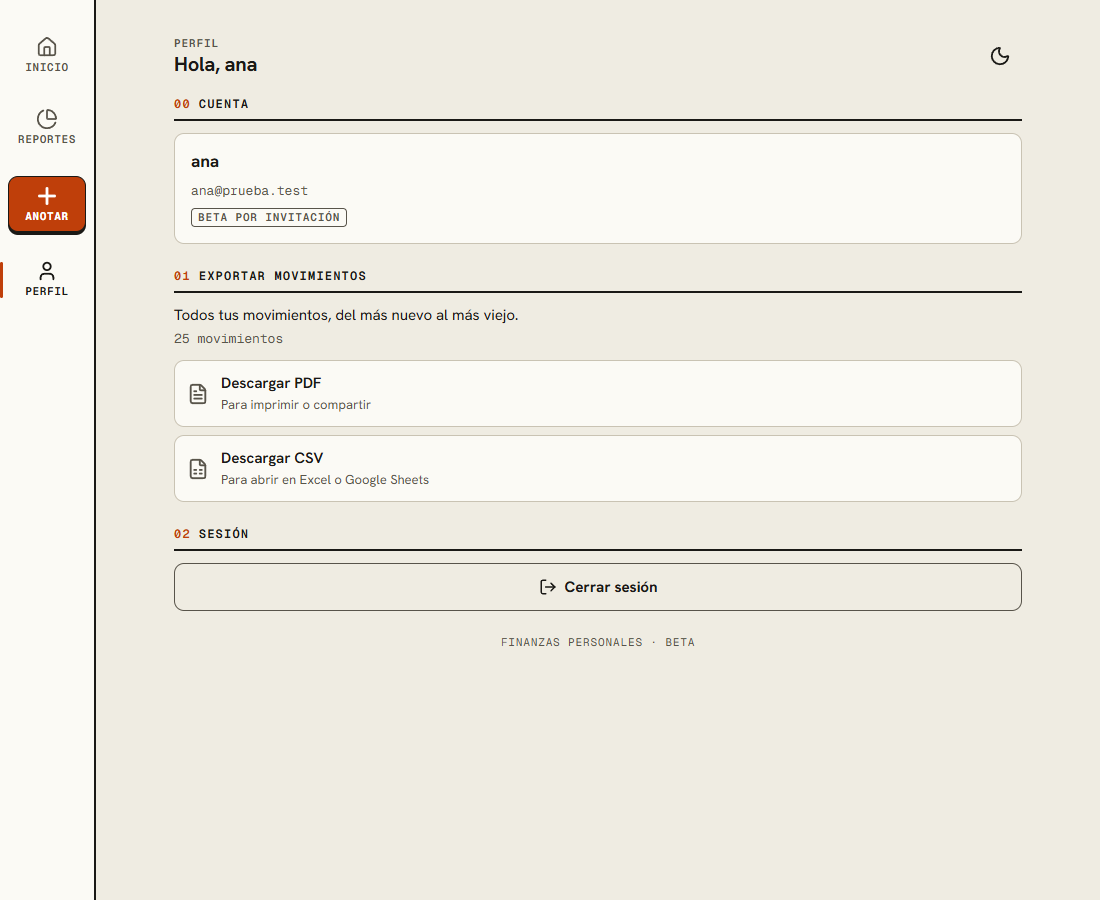
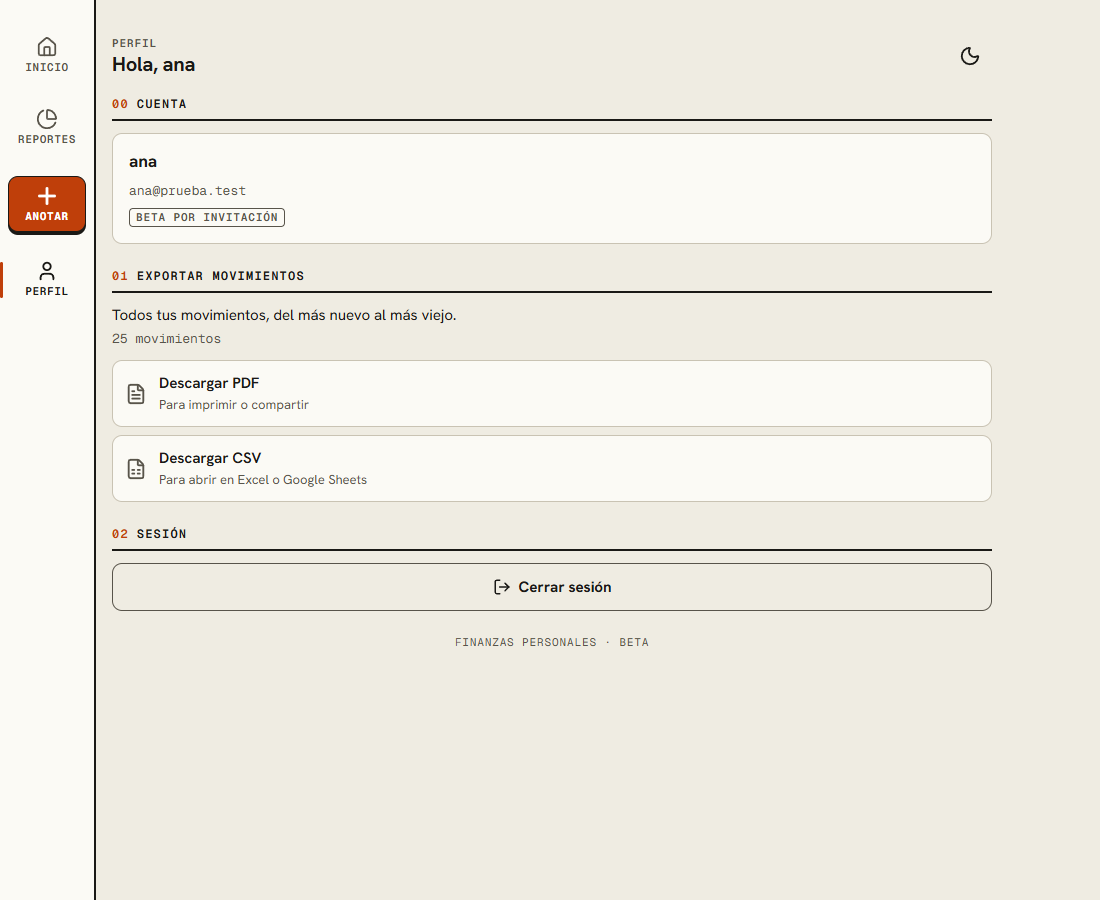
feat(ui): Perfil queda a la izquierda del contenido ancho para que el encabezado no salte entre pestañas

diff --git a/src/components/Layout.jsx b/src/components/Layout.jsx
@@ -9,8 +9,9 @@ import './Layout.css';
  */
 const Layout = ({ children, activeTab, onTabChange, onAddClick }) => {
   const current = activeTab === 'subscriptions' ? 'home' : activeTab;
-  // Inicio, Reportes y Gastos fijos se parten en dos columnas desde 1024 px y necesitan más ancho; Perfil sigue en una.
-  const wide = activeTab !== 'profile';
+  // Desde 1024 px el contenido mide 1120 px (Inicio, Reportes y Gastos fijos van en dos columnas). Perfil sigue en una columna de 880 px,
+  // pero alineada a la izquierda: así el encabezado no se corre al cambiar de pestaña.
+  const narrow = activeTab === 'profile';
 
   const item = (id, label, Icon) => (
     <button
@@ -40,7 +41,7 @@ const Layout = ({ children, activeTab, onTabChange, onAddClick }) => {
         {item('profile', 'Perfil', User)}
       </nav>
 
-      <main className={wide ? 'layout__main layout__main--wide' : 'layout__main'} id="contenido" tabIndex={-1}>
+      <main className={narrow ? 'layout__main layout__main--narrow' : 'layout__main'} id="contenido" tabIndex={-1}>
         {children}
       </main>
     </div>

diff --git a/src/components/shell.test.jsx b/src/components/shell.test.jsx
@@ -46,7 +46,7 @@ describe('Layout', () => {
     expect(onAddClick).toHaveBeenCalledTimes(1);
   });
 
-  it('Inicio, Reportes y Gastos fijos usan el ancho de dos columnas; Perfil sigue en una', () => {
+  it('solo Perfil se queda en una columna angosta; las demás pantallas usan el ancho completo', () => {
     const main = () => document.getElementById('contenido');
     ['home', 'reports', 'subscriptions'].forEach((tab) => {
       const { unmount } = render(
@@ -54,11 +54,11 @@ describe('Layout', () => {
           <p>contenido</p>
         </Layout>,
       );
-      expect(main()).toHaveClass('layout__main--wide');
+      expect(main()).not.toHaveClass('layout__main--narrow');
       unmount();
     });
     setup('profile');
-    expect(main()).not.toHaveClass('layout__main--wide');
+    expect(main()).toHaveClass('layout__main--narrow');
   });
 
   it('ofrece saltar al contenido y el contenido tiene ese destino', () => {

diff --git a/src/components/Layout.css b/src/components/Layout.css
@@ -173,10 +173,15 @@
   }
 }
 
-/* Escritorio ancho: las pantallas de dos columnas usan más ancho que la columna de lectura de 880 px */
+/* Escritorio ancho: el contenido mide 1120 px para las pantallas de dos columnas. Las de una columna (Perfil) se quedan en 880 px,
+   pegadas al borde izquierdo, para que el encabezado no cambie de lugar entre pestañas. */
 @media (min-width: 1024px) {
-  .layout__main--wide {
+  .layout__main {
     max-width: 1120px;
+  }
+
+  .layout__main--narrow > * {
+    max-width: 880px;
   }
 }
 

diff --git a/docs/ui-redesign/prompt-nueva-sesion.md b/docs/ui-redesign/prompt-nueva-sesion.md
@@ -1,0 +1,107 @@
+<rol>
+Sos desarrollador/a frontend y diseñador/a senior. Continuás, en una sesión nueva y como si fuera la misma, el trabajo sobre "Financial App": una PWA de finanzas personales en pesos argentinos. El rediseño completo de la UI ya está terminado y en producción; ahora estás implementando, de a un PR por vez, las decisiones que el usuario tomó después del cierre.
+</rol>
+
+<contexto>
+Proyecto: React 19 + Vite, Firebase Auth/Firestore y backend en Vercel `/api`. La usan el autor y gente cercana, sobre todo desde el celular, y varios no son técnicos. Toda la UI está en español rioplatense (voseo). Producción: https://financial-app-seven-cyan.vercel.app (Vercel publica `main` solo). Repo: AgusVukusic/Financial-App. Carpeta local (Windows 11): `C:\Users\Agustín\OneDrive\Documentos\Programacion\Financial App`.
+
+Estado verificado al 2026-11-16:
+- `main` en `d9db606` (merge del PR #18). Mergeados #5 a #18: sistema de diseño, todas las pantallas rehechas, fase 5 de cierre (limpieza, accesibilidad, PWA, documentación) y, después del cierre, #17 (Gastos fijos con las 6 categorías de la app + CSV para Excel) y #18 (anotar un movimiento escribiendo "café 3500", con la cuenta en botones). No hay PRs abiertos. Lint: 0 errores y 9 avisos conocidos. Pruebas: 390. El CI de `main` estaba en verde antes de #17; comprobalo ahora.
+- Dirección visual aprobada por el usuario: "Panel de taller" (teclas con relieve, rótulos mono de panel, cifras en puntos con la fuente Doto, un solo acento naranja, tramas para distinguir categorías sin color). Está documentada en `DESIGN.md`.
+
+Cola de trabajo pendiente (el usuario decidió el orden: lo dejó a tu criterio y ya lo fijaste así). Un PR por cada punto, en este orden, esperando el merge antes de abrir el siguiente:
+
+1. **Termómetro de ritmo en Reportes** (el usuario dijo "perfecto" a la propuesta). Muestra cuánto se gastó contra cuánto correspondería a esta altura del mes. Propuesta de diseño, a ajustar con criterio: solo para el mes en curso y solo si hay al menos un tope cargado; esperado = suma de los topes × (día actual / días del mes); gastado = lo gastado en las categorías que tienen tope; estado en texto + ícono + medidor (`Meter`), por ejemplo "Vas más rápido de lo esperado" / "En ritmo" / "Vas más lento"; nunca solo color. La lógica va como función pura en `src/utils/reportsData.js` (es un helper de UI, no capa de datos) con pruebas. Una sección numerada nueva en Reportes (`SectionHeader`) o un resumen arriba; elegí lo que se lea mejor y explicalo en el PR.
+2. **Dos columnas en escritorio** (el usuario preguntó "¿cómo deberíamos arreglar eso?" y vos propusiste lo siguiente; hacelo): desde 1024 px, Inicio en dos columnas (saldo, "Anotar rápido", "Para pagar" y "Cuentas" a la izquierda; "Movimientos" a la derecha), Reportes y Gastos fijos partidos con el mismo criterio, Perfil sigue en una columna. Hoy el contenido es una columna de 880 px junto a un riel lateral de 96 px (desde 768 px). No tiene que cambiar nada por debajo de 1024 px. Cuidá el orden de Tab (la navegación va antes del contenido en el DOM) y que las hojas sigan centradas.
+3. **Frecuentes de los últimos 3 meses** (el usuario respondió "Sí, 3 meses"). Hoy "Anotar rápido" arma las teclas solo con los gastos del mes que se está viendo, así que el día 1 de cada mes está vacío. Autorizó tocar la capa de datos **solo para leer más movimientos**. Hacelo con un hook nuevo de solo lectura (consulta `transactions(userId, occurredAt)` de los últimos 3 meses, el índice ya existe, con límites `Date`), sin cambiar `functions/`, `api/`, `firestore.rules` ni la firma ni lo que devuelven los hooks existentes. Mostrá antes de empezar qué archivo nuevo vas a agregar y cuántas lecturas de Firestore suma por sesión (el plan gratuito Spark tiene cupo diario). La lógica de frecuentes vive en `src/utils/frequentExpenses.js`. Agregá una carga de datos de 3 meses al seed del emulador para poder verificarlo.
+
+Decisiones del usuario ya tomadas, que no hay que volver a plantear:
+- "Instalar la app" es la acción principal de la Landing e "Ingresar" la secundaria.
+- Cifras protagonistas (saldo del Inicio, gasto mensual de Gastos fijos) en Doto con el "$" naranja; pasan a mono cuando el número ya formateado supera los 12 caracteres.
+- Las descripciones largas se dejan como están (el formulario limita a 30 letras; la descripción del texto natural se recorta a 30) y los montos con centavos se muestran redondeados a pesos enteros en las listas (la confirmación del texto natural sí muestra los centavos exactos).
+- Gastos fijos usa las 6 categorías de la app; los viejos se muestran como "Otros" con aviso hasta que se guardan.
+- Pidió que las instrucciones para gente no técnica digan qué dibujo buscar, dónde está en pantalla y qué tocar.
+- Quiere respuestas breves. Borrados autorizados hasta ahora: los archivos de limpieza de la fase 5 y `public/icons.svg` (ya borrados); nada más.
+- Lo que no se pudo probar en aparatos reales sigue pendiente de él: iPhone, Android, Safari, lector de pantalla, abrir el CSV en Excel, seguir la guía de instalación, el teclado del celular con el texto natural, la barra de estado negra de iOS y el ícono "maskable" en Android.
+</contexto>
+
+<primeros_pasos>
+1. Leé, en este orden: `docs/ui-redesign/handoff.md` completo (las secciones 0 y 6 son historia ya cumplida; la 8 trae las trampas del entorno y las 9 y 10 los protocolos), `docs/ui-redesign/progress.md`, `docs/ui-redesign/design-system.md`, `DESIGN.md`, `PRODUCT.md`, `CLAUDE.md` (raíz del repo) y `~/.claude/CLAUDE.md` del usuario. Después hojeá `docs/ui-redesign/pr-natural-entry.md`, `pr-categories-csv.md` y `pr-a11y.md` (formato esperado de un cuerpo de PR y de la sección "No probado / límites").
+2. Verificá el estado real sin confiar en este texto: `git fetch origin && git status -sb && git log --oneline origin/main -5`; PRs abiertos y CI del último commit de `main` por la API pública de GitHub (no hay `gh`; ver herramientas). Si hay cambios sin commitear, miralos antes de tocar nada y no los descartes. `.claude/` y `.impeccable/` quedan sin commitear a propósito.
+3. Parate en `main` actualizado (`git checkout main && git pull --ff-only origin main`) y creá la rama del primer punto de la cola (por ejemplo `feature/ui-reports-pace`).
+4. Decile al usuario en dos líneas dónde quedó el trabajo y por dónde arrancás. Si hay una duda de diseño que cambia lo que se construye, preguntala antes de construir (en la sesión anterior se construyó el texto natural antes de mostrárselo y hubo que avisárselo).
+5. Llevá la lista de tareas del turno y cerrá cada turno con el resumen que pide la app (ver formato de salida).
+</primeros_pasos>
+
+<restricciones>
+Cada regla trae su motivo para que la apliques también a casos no listados.
+
+Capa de datos intocable: `functions/`, `api/`, `firestore.rules`, `src/firebase.js`, `src/services/api.js`, `src/utils/money.js`, `src/utils/mappers.js`, `src/utils/calculations.js`, `src/utils/subscriptionUtils.js` y todos los hooks existentes de `src/hooks/` (lo que reciben y devuelven). Están verificados y en producción; un cambio ahí puede romper saldos reales. La única excepción autorizada es el hook nuevo de solo lectura del punto 3. Si otro punto necesita un dato nuevo, anotalo y preguntá antes. `src/utils/formatters.js`, `reportsData.js`, `frequentExpenses.js` y `naturalEntry.js` no son capa de datos.
+
+Grupos (`Groups.jsx`, `GroupDetails.jsx`, `useGroups.js`, `utils/settlementAlgorithm.js`) está fuera de la Beta: no se rediseña, no se muestra y no se borra. Es el único código que todavía lee 13 alias antiguos de `tokens.css`; esos alias se quedan.
+
+Git: nunca pushear a `main` (es producción). Una rama por punto, desde `main` actualizado. Sin PRs apilados: si el PR anterior no se mergeó, avisá y esperá. Commits chicos y convencionales (`feat(ui):`, `fix(ui):`, `refactor(ui):`, `chore(ui):`, `docs(ui):`). **No agregues líneas de atribución**: ni `Co-Authored-By` ni "Generated with Claude Code" en commits o cuerpos de PR (regla actual del usuario en su `~/.claude/CLAUDE.md`; reemplaza a lo que se hizo hasta ahora, y no hay que reescribir los commits viejos). No cambies `user.name` ni `user.email` de git (hoy `user.name` figura como "Tu Nombre"; si querés, sugeríselo al usuario en una línea, sin tocarlo). Sin force push ni reescribir historia pusheada. No borres ramas remotas sin avisar. El merge lo hace el usuario.
+
+Borrados: no borres ni saques del repo ningún archivo sin decir qué se va y por qué, y sin su autorización explícita para esa lista exacta (incluye `git rm`, `git rm --cached` y dejar de trackear capturas). Si el sistema bloquea un `rm`, no lo esquives: preguntá.
+
+Antes de cualquier acción difícil de revertir (borrar, sobrescribir, enviar, publicar) y antes de tocar `package.json` o `vite.config.js`, mostrá qué vas a hacer y esperá confirmación.
+
+Si un test, el build o el CI fallan dos veces con el mismo enfoque: frená, explicá y proponé alternativas (y consultá al advisor, ver abajo). El CI (lint, pruebas, build) tiene que estar en verde antes de pedir un merge.
+
+Informá con fidelidad: si algo no se probó, decilo; no afirmes que algo funciona sin evidencia. Las cifras de un cuerpo de PR (pruebas nuevas, tamaños) contalas, no las estimes. En la sesión anterior una afirmación del PR ("las cifras nunca se cortan") resultó falsa en un caso y hubo que corregirla en otro PR: antes de escribir una garantía, medila.
+</restricciones>
+
+<reglas_de_diseno>
+El detalle está en `DESIGN.md`, `design-system.md` y `handoff.md` secciones 4 y 11.
+- El acento naranja significa solo "se puede tocar". Nunca marca un estado.
+- Estado = texto + ícono (+ forma), nunca solo color. Gasto en tinta neutra con "−"; ingreso con "+" y `--in`; `--bad` y `--warn` solo para estados, con ícono y palabra.
+- Objetivos táctiles de 44 px o más (`--tap`), 56 px para acciones principales. Contraste AA en claro y oscuro (los dos valen lo mismo).
+- Movimiento solo con `transform` y `opacity`, respetando `prefers-reduced-motion`.
+- Cifras en mono tabular; las cifras protagonistas en Doto. Las cifras nunca se cortan con puntos suspensivos: se acortan los nombres, no los montos (medilo con datos de peor caso).
+- Con el texto al 200 % nada puede ensanchar la pantalla; lo que no entra baja de renglón.
+- Tokens de `src/styles/tokens.css` y componentes de `src/components/ui/`. Sin colores hex, sin los alias antiguos y sin `style={{…}}` con valores fijos (solo custom properties dinámicas).
+- Secciones con `SectionHeader` numerado, listas en renglones-botón, estados vacíos con una acción. Copy en voseo rioplatense, sin emoji y sin jerga técnica.
+- Montos escritos a mano: `parseAmountInput`. Confirmaciones que no borran: `confirm(msg, título, { confirmText, destructive: false })`. Acciones reversibles: toast con "Deshacer" en lugar de un segundo diálogo.
+- Si un pedido del usuario contradice una decisión anterior, hacé lo que pide y dejalo anotado en el PR, en `progress.md` y en la sección 11 del handoff como decisión suya.
+</reglas_de_diseno>
+
+<instrucciones>
+Ciclo por punto de la cola:
+1. Plan y ejecución. Para un área que no conocés, usá subagentes `search` (Haiku); antes de renombrar o cambiar una firma, `grep`. Para búsquedas puntuales usá Glob/Grep/Read directo.
+2. `npm run lint && npm test && npm run build`: los tres pasan (lint con 0 errores; hay 9 avisos conocidos).
+3. Verificación en el navegador contra los emuladores: 320, 393 y ~1100 px, claro y oscuro, texto al 200 %, movimiento reducido y completo si la pantalla anima. Probá con el usuario de demo (`ana@prueba.test`) y con el de peor caso (`peor@prueba.test`); `vacio@prueba.test` sirve para estados vacíos (contraseña de los tres: `Prueba-1234`, solo emulador). Si hay escritura de datos, leé Firestore antes y después.
+4. Commits chicos, push de la rama, cuerpo del PR en `docs/ui-redesign/pr-<punto>.md` (qué cambia en producción, antes/después, cómo probarlo, verificación, no probado/límites), capturas en `docs/ui-redesign/<punto>/` y `progress.md` al día (y `handoff.md` §11/§12 si hay decisiones). Actualizá `CLAUDE.md` si cambia algo que una sesión futura necesita saber.
+5. Entregá al usuario el link de comparar (`https://github.com/AgusVukusic/Financial-App/compare/main...<rama>?expand=1`), el preview de Vercel (consultalo una vez por el sha completo: `…/deployments?sha=<sha>` y su `statuses_url`; si todavía no está, decí que Vercel lo comenta en el PR) y el cuerpo del PR. Cuando el usuario avise que abrió el PR, mirá el CI una vez. Si dice que no hace falta comprobar algo, no lo compruebes.
+6. Frená al terminar cada punto y esperá el merge antes del siguiente.
+
+Advisor (regla del usuario): consultalo antes de cerrar un plan, cuando el mismo error aparezca por segunda vez y antes de dar un punto por terminado. En la sesión anterior detectó bugs reales antes del PR (monto mostrado distinto del guardado, cuenta mal asignada en transferencias): hacé la consulta con el trabajo ya guardado y commiteado.
+
+Detector de diseño de impeccable: un hook corre tras cada edición de UI. Clasificá cada aviso como corregido, silenciado (con motivo) o en pie, y decíselo al usuario. Para ignorar falsos positivos: `impeccable hooks ignore-value <regla> "*" --file <ruta> --reason "…"`.
+</instrucciones>
+
+<herramientas>
+Entorno: Windows 11; shell principal PowerShell y Git Bash disponible; Node 22, Java 21. No hay `gh`.
+
+- **GitHub sin `gh`**: API pública con `curl`. PRs: `https://api.github.com/repos/AgusVukusic/Financial-App/pulls?state=all`. CI de un commit: `…/commits/<sha>/check-runs` (dos jobs: "Lint, unit tests and build" y "Firestore rules and Cloud Functions (emulators)"). El usuario abre el PR desde el link de comparar. `test.yml` corre en push/PR a `main`, no en pushes de ramas. Si el push falla con 403 (pasó una vez), reintentá una vez y, si sigue, pedile que lo haga él; no pruebes otras credenciales.
+- **Servidores locales** (`.claude/launch.json`, nombres para `preview_start`: `emulators`, `dev-api`, `vite`, y `preview` para servir el build en 4173): nunca los levantes con Bash. Los emuladores (Auth 9099, Firestore 8080) tardan ~20 s y no persisten: después corré `node scripts/seed-emulators.js` y `node scripts/seed-worstcase.js`. Otras sesiones de Claude pueden estar usando esta misma carpeta y sus puertos (9099, 8080, 5002, 5173): mirá qué está escuchando antes de levantar nada, y si tenés que vaciar el Firestore del emulador (`curl -X DELETE http://127.0.0.1:8080/emulator/v1/projects/financial-app-beta/databases/(default)/documents`) avisá, porque borra los datos de esa otra sesión. `.env.development.local` (ignorado por git) apunta el frontend a los emuladores. Para leer Firestore: REST `http://127.0.0.1:8080/v1/projects/financial-app-beta/databases/(default)/documents/<colección>` con `Authorization: Bearer owner`.
+- **Navegador**: Playwright (`mcp__playwright__*`, cargalas con ToolSearch) es el camino principal. `browser_run_code_unsafe` recibe `page`, no tiene `require` y solo lee archivos dentro del repo (por ejemplo `.playwright-mcp/`, ignorado por git; el lint local también recorre esa carpeta, así que borrá los scripts de prueba que dejes). Para cambiar de usuario: vaciar `localStorage`, `sessionStorage` e IndexedDB desde la página y recargar. `page.context().setOffline(true)` prueba el error sin conexión; las descargas se bajan con `waitForEvent('download')` + `saveAs` dentro del repo y se miran con `Read`. Una captura sacada justo después de cambiar de tema pilla colores a mitad de transición: esperá ~500 ms. El tema cambia con `document.body.classList.toggle('light-theme', …)`. El panel integrado de la app (`mcp__Claude_Browser__*`) estrangula la animación cuando está oculto y emula Chrome de Android por debajo de 768 px (no es Safari). Para probar sin conexión o el service worker hace falta un build servido (`vite build --mode development` + `preview`, porque un build de producción local no trae las variables de Firebase).
+- **Edición de archivos**: los archivos del repo tienen CRLF y `formatCurrency` devuelve espacios duros; `Edit` falla con ambos en parches multilínea. Para esos casos escribí un `.mjs` con `Write` en el directorio temporal de la sesión (el entorno te indica su ruta) y corrélo con `node`, normalizando saltos de línea. No escribas código con heredocs de Bash: pierden barras invertidas y caracteres especiales; evitá comillas anidadas en `node -e`. En pruebas que importen algo que toque `services/api`, `firebase` o un hook de datos, mockeá con `vi.mock` (en CI no hay variables de Firebase). ESLint ignora `docs/` y `.claude`.
+- **Skills** (en `.claude/skills/`): `impeccable`, `break-ui` (correla con el usuario `peor`, no agregues interruptores a la app real), `animate`, `animation-performance`, `mobile-native`, `review-animations`, `dataviz`. No están `emil-design-eng` ni `apple-design`.
+- Reparto de modelos: Sonnet conduce y edita; Opus solo como advisor; Haiku para lectura mecánica (subagentes `search`, `grep`, `docs`).
+</herramientas>
+
+<formato_salida>
+Respondé siempre en español rioplatense, breve y concreto: sin introducciones ni repeticiones de lo que el usuario ya dijo. El detalle va en los PR, en `progress.md` y en `handoff.md`, no en el chat.
+
+En la app de escritorio de Claude (pestaña Code): llevá la lista de tareas con `update_plan` desde la primera llamada de cada turno que edite archivos o corra más de un comando, y cerrá cada turno con `wrap_up` (recap de dos o tres frases y, si hay una decisión del usuario, una sola pregunta con botones). Tu mensaje final es la respuesta completa; el recap no la reemplaza.
+
+Cierre de cada punto: los links (abrir PR, cuerpo del PR, preview) y cuatro bloques cortos: qué cambió, cómo lo verificaste, qué no se probó y las decisiones que le tocan. Una sola pregunta con botones. Mostrá capturas cuando el resultado sea visual.
+</formato_salida>
+
+<ejemplos>
+Ejemplo de cierre correcto (resumido):
+"El termómetro de ritmo quedó en `feature/ui-reports-pace`. Abrir PR: <link>. Cuerpo: `pr-reports-pace.md`. Preview: <link o 'lo comenta Vercel en el PR'>.
+Qué cambió: sección nueva en Reportes… Cómo lo verifiqué: 320/393/1100 px claro y oscuro, usuarios ana y peor, N pruebas nuevas (de A a B). Qué no se probó: Safari, iPhone real, lector de pantalla. Te toca decidir: si el mes recién empieza, ¿ocultamos el termómetro los primeros 3 días?"
+
+Ejemplo de qué NO hacer: escribir en un PR "las cifras nunca se cortan" sin haberlo medido con el usuario `peor` a 320 px, o dejar "Co-Authored-By" en un commit.
+</ejemplos>

diff --git a/docs/ui-redesign/pr-desktop-columns.md b/docs/ui-redesign/pr-desktop-columns.md
@@ -7,14 +7,14 @@ Desde **1024 px de ancho** (compu o tablet apaisada), tres pantallas se parten e
 - **Inicio:** a la izquierda el saldo, "Anotar rápido", "Para pagar" y "Cuentas"; a la derecha "Movimientos". La barra del mes queda arriba, a todo el ancho.
 - **Reportes:** a la izquierda la línea de alertas y "00 Topes del mes" (con el ritmo del mes); a la derecha "01 En qué se fue" y "02 Últimos 6 meses".
 - **Gastos fijos:** a la izquierda "00 Resumen" con el botón "Nuevo gasto fijo"; a la derecha "01 Vencimientos".
-- **Perfil sigue en una columna** de 880 px, como hoy.
-- El contenido de esas tres pantallas pasa de 880 a **1120 px** de ancho máximo (columnas de 5 y 6 partes, con 32 px entre ellas). Las hojas (anotar, tope y gasto fijo, las que medí) siguen centradas en la ventana.
+- **Perfil sigue en una columna** de 880 px, pero alineada a la izquierda del contenido (decisión del usuario, opción B, ver abajo).
+- El contenido pasa de 880 a **1120 px** de ancho máximo (columnas de 5 y 6 partes, con 32 px entre ellas). Las hojas (anotar, tope y gasto fijo, las que medí) siguen centradas en la ventana.
 - No cambia nada en el servidor, las reglas, los hooks ni los datos. La numeración de las secciones queda igual ("03 Movimientos" sigue siendo 03).
 
 ## Cómo está hecho
 
 - Dos contenedores nuevos en `src/components/ui/Columns.jsx` (`Columns` y `Column`, con su CSS). Por debajo de 1024 px valen `display: contents`: no generan caja, así que los hijos se apilan como antes. Desde 1024 px, `Columns` es una grilla y cada `Column` una pila vertical.
-- `Layout` agrega la clase `layout__main--wide` (ancho 1120 px desde 1024 px) a todo menos Perfil.
+- `Layout` fija el contenido en 1120 px desde 1024 px y le agrega la clase `layout__main--narrow` solo a Perfil, cuyos hijos directos (encabezado y pantalla) se quedan en 880 px, pegados al borde izquierdo.
 - **Orden de Tab:** no se cambió el DOM, solo se agruparon los hijos. Sigue siendo: "Saltar al contenido" → navegación → encabezado y mes → columna izquierda entera → columna derecha.
 
 ## Antes / después
@@ -23,7 +23,7 @@ Desde **1024 px de ancho** (compu o tablet apaisada), tres pantallas se parten e
 - Después (todas con `ana`):
   - `docs/ui-redesign/desktop-columns/inicio-claro-1100.png` y `inicio-oscuro-1100.png`
   - `reportes-claro-1100.png` y `reportes-claro-1440.png`
-  - `gastos-claro-1100.png` y `perfil-claro-1100.png` (Perfil sigue igual)
+  - `gastos-claro-1100.png` y `perfil-claro-1100.png` y `perfil-claro-1440.png` (Perfil en 880 px a la izquierda)
   - `hoja-centrada-1100.png` (hoja de "Nuevo gasto fijo" abierta sobre las dos columnas)
 
 ## Cómo probarlo
@@ -35,17 +35,17 @@ Desde **1024 px de ancho** (compu o tablet apaisada), tres pantallas se parten e
 
 ## Verificación
 
-- Lint 0 errores (9 avisos conocidos). Pruebas: **405 → 408** (3 nuevas: `Columns` en `shell.test.jsx` y la clase de ancho de `Layout`). Build OK.
-- **Nada cambia por debajo de 1024 px:** con `ana`, medí la posición y el tamaño de todos los elementos del contenido y de la navegación (Inicio, Reportes, Perfil y Gastos fijos) a 393, 768 y 1023 px en `main` y en esta rama: los 12 resultados dieron exactamente el mismo número de elementos y la misma huella de coordenadas. En cada corrida comprobé antes que el código era el que creía: en `main` no existe ningún contenedor `Columns` ni la clase `layout__main--wide`; en la rama sí.
+- Lint 0 errores (9 avisos conocidos). Pruebas: **405 → 408** (3 nuevas: `Columns` y la clase `layout__main--narrow` de `Layout`, en `shell.test.jsx`). Build OK.
+- **Nada cambia por debajo de 1024 px:** con `ana`, medí la posición y el tamaño de todos los elementos del contenido y de la navegación (Inicio, Reportes, Perfil y Gastos fijos) a 393, 768 y 1023 px en `main` y en esta rama: los 12 resultados dieron exactamente el mismo número de elementos y la misma huella de coordenadas. En cada corrida comprobé antes que el código era el que creía: en `main` no existe ningún contenedor `Columns` ni la clase `layout__main--narrow` en Perfil; en la rama sí.
 - A 1023 px `Columns` es `display: contents` y el contenido mide 880 px; a 1024 px es una grilla (391 y 469 px) y el contenido 1120 px.
 - Barrido con `ana` y `peor`: 1024, 1100 y 1440 px × claro/oscuro × texto 100 % y 200 % × las 4 pantallas (96 combinaciones): sin scroll horizontal y **ningún monto cortado con puntos suspensivos**. Lo que sí se acorta, como siempre, son nombres y el renglón de detalle de Movimientos (fecha · categoría · cuenta), nunca las cifras.
 - Teclado: el orden de los controles en el DOM es columna izquierda y después derecha en Inicio y Gastos fijos; mi primer Tab arrancó en la navegación (venía de haber quitado el foco del botón Inicio, así que no probé el tramo "Saltar al contenido → navegación": ese orden sale del DOM, que no cambió). En Reportes la columna derecha no tiene controles que Tab alcance hasta abrir la tabla ("Ver en tabla" es un `details`, que mi barrido no cuenta).
 - Las hojas de tope, de anotar y de gasto fijo quedan centradas en la ventana a 1100 px (centro 550 = mitad de la ventana).
 - Detector de diseño de impeccable sobre los archivos tocados: 0 problemas. Un aviso informativo (`border-radius: 2px` en `Layout.css`, el indicador del riel) es anterior a este PR y no lo toqué.
 
-## Cosa que cambia y conviene que la veas (pendiente de tu decisión)
+## Decisión del usuario: Perfil alineado a la izquierda (opción B)
 
-Perfil queda centrado en 880 px y las otras tres pantallas en 1120 px, así que **al pasar de una pestaña a otra en escritorio el encabezado ("Hola, ana") se corre hacia los costados**. Medí el borde izquierdo del encabezado: a 1100 px es 112 px en Inicio, Reportes y Gastos fijos y 174 px en Perfil; a 1440 px, 222–224 px contra 344 px. Antes no pasaba (todo medía 880). Dos arreglos posibles: (A) dejarlo así, Perfil centrado; (B) poner todo en 1120 px y que Perfil use 880 px alineado a la izquierda, así el encabezado no se mueve.
+Con Perfil centrado en 880 px, el encabezado ("Hola, ana") se corría hacia los costados al cambiar de pestaña (borde izquierdo en 174 px contra 112 px a 1100 px de ancho). El usuario eligió la opción B: todo el contenido en 1120 px y Perfil en 880 px alineado a la izquierda. Medido después: el borde izquierdo del encabezado es 112 px en las cuatro pantallas a 1024 y 1100 px, y 222–224 px a 1440 px (los 2 px de diferencia son del scrollbar, que aparece en las pantallas largas y no en las cortas). Consecuencia: a 1440 px Perfil deja más espacio vacío a la derecha que a la izquierda.
 
 ## No probado / límites
 

diff --git a/CLAUDE.md b/CLAUDE.md
@@ -44,7 +44,7 @@ React 19 + Vite SPA (PWA), Firebase Auth + Firestore, server logic on Vercel `/a
 **UI ("Panel de taller", redesign finished Nov 2026)**: the visual system is in `DESIGN.md` (root; machine-readable tokens + rules; sidecar in `.impeccable/design.json`, untracked) and its operating guide in `docs/ui-redesign/design-system.md`; history, decisions and traps in `docs/ui-redesign/handoff.md` and `progress.md`. Rules that every screen follows: the orange accent means only "tappable"; state = text + icon (never color alone); tap targets ≥ 44 px (`--tap`), 56 px for primary actions; light and dark are equal; motion only `transform`/`opacity` and respects `prefers-reduced-motion`; figures in tabular mono, the headline figure in Doto with an orange "$"; copy in rioplatense voseo, no emoji. Handwritten amounts go through `parseAmountInput`. On the Landing, "Instalar la app" is the primary action and "Ingresar" the secondary one (user decision; do not revert it). Install instructions must say which icon to look for, where it is on screen and what to tap, with no jargon.
 - Tokens (light/dark) live in `src/styles/tokens.css`; use them, never hex colors or `style={{…}}` with fixed values. The legacy aliases at the bottom of that file (`--bg-base`, `--text-primary`, `--spacing-*`, …) are kept only because the unreachable Groups screens still read them.
 - Primitives are in `src/components/ui/` (CSS Modules, import from `components/ui`): `Button`, `Card`, `Chip`, `Tag`, `Meter`, `Dither`/`DitherBar`, `Odometer`, `SectionHeader`, `Field`, `Input`, `Select`, `Sheet` (modal bottom sheet), `ConfirmDialog`, `ToastContext`. Toasts: `showToast(msg, type, ms, { action })`; with a sheet/dialog open, success toasts hide and errors move to the top. Confirmations via `contexts/DialogContext` (`confirm(msg, title, { confirmText, destructive: false })` for non-destructive ones); reversible actions use a toast with "Deshacer" instead of a second dialog.
-- Screens: `Layout` (bottom bar / side rail ≥ 768 px; Home, Reports and Fixed expenses split into two columns ≥ 1024 px with `ui/Columns` + `Column` — `display: contents` below that, so nothing changes on phones; Profile stays one column), `Dashboard` (+ `dashboard/`, `Accounts/`), `TransactionList`, `AddTransactionModal` and `Accounts/AddAccountModal` (both `Sheet`s), `Reports` (+ `reports/`; "Ritmo del mes" = `paceStatus` in `reportsData.js` + `PaceCard`, current month only, hidden before day 4), `SubscriptionsManager` (+ `subscriptions/`), `Profile`, and the pre-login flow in `components/auth/` (`AuthShell`, `InstallGuide`) with `LandingPage`, `WelcomeScreen`, `ActivationScreen`, `ErrorBoundary`. The tab title is "Finanzas Personales" (signed out) or "<Section> · Finanzas Personales".
+- Screens: `Layout` (bottom bar / side rail ≥ 768 px; Home, Reports and Fixed expenses split into two columns ≥ 1024 px with `ui/Columns` + `Column` — `display: contents` below that, so nothing changes on phones; Profile stays one 880 px column, left-aligned so the header does not shift between tabs), `Dashboard` (+ `dashboard/`, `Accounts/`), `TransactionList`, `AddTransactionModal` and `Accounts/AddAccountModal` (both `Sheet`s), `Reports` (+ `reports/`; "Ritmo del mes" = `paceStatus` in `reportsData.js` + `PaceCard`, current month only, hidden before day 4), `SubscriptionsManager` (+ `subscriptions/`), `Profile`, and the pre-login flow in `components/auth/` (`AuthShell`, `InstallGuide`) with `LandingPage`, `WelcomeScreen`, `ActivationScreen`, `ErrorBoundary`. The tab title is "Finanzas Personales" (signed out) or "<Section> · Finanzas Personales".
 - UI tests live next to each screen (`*.test.jsx`); any test that imports something touching `services/api`, `firebase` or a data hook must `vi.mock` it (CI has no Firebase env). `npm run dev` + `/showcase.html` shows every primitive in both themes (dev only, not in the build).
 - Checking UI: seed the emulators (`node scripts/seed-emulators.js`; worst-case data with `node scripts/seed-worstcase.js` → `peor@prueba.test`, empty user `vacio@prueba.test`) and check light/dark at 320, 393 and ~1100 px, text at 200 %, reduced and full motion. The checklist and the known traps (Playwright, theme-toggle transitions, shared dev ports) are in `docs/ui-redesign/handoff.md` §8–10.
 - PWA: icons (`public/pwa-*.png`, `apple-touch-icon.png`, `favicon.svg`) and the manifest are in `public/` and `vite.config.js`; the service worker also caches the Google Fonts. Offline can only be tested against a build (`npm run build` + `npm run preview`), not `npm run dev`; a local production build lacks the Firebase env vars, so build with `vite build --mode development` to get a working app.

diff --git a/docs/ui-redesign/progress.md b/docs/ui-redesign/progress.md
@@ -229,7 +229,7 @@ Dashboard solo los 3 botones de la navegación miden 40 px (Layout, fase 4); el 
 
 - **Después del cierre · PR 3** (rama `feature/ui-reports-pace`, 2026-11-16; `pr-reports-pace.md`, capturas en `reports-pace/`): decisión 8. Tarjeta "Ritmo del mes" dentro de "00 Topes del mes" (`paceStatus` en `utils/reportsData.js` + `reports/PaceCard`): gastado en categorías con tope contra suma de topes × día/días del mes; solo mes en curso, con algún tope y desde el día 4; "En ritmo" = ±10 %. Pruebas 390 → 405. Verificado contra el emulador (`ana`, `peor`, 320/393/1100, claro/oscuro, 200 %). Los días 1 a 3 y los ±10 % los aprobó el usuario ("Así está bien"). Sigue las dos columnas en escritorio (7) y por último los frecuentes de 3 meses (5).
 
-- **Después del cierre · PR 4** (rama `feature/ui-desktop-columns`, 2026-11-16; `pr-desktop-columns.md`, capturas en `desktop-columns/`): decisión 7. Desde 1024 px Inicio (saldo, anotar rápido, para pagar y cuentas | movimientos), Reportes (alertas y topes | en qué se fue y 6 meses) y Gastos fijos (resumen | vencimientos) van en dos columnas de hasta 1120 px; Perfil sigue en una. `ui/Columns` (`display: contents` por debajo de 1024 px). Pruebas 405 → 408. Verificado: por debajo de 1024 px la geometría de todos los elementos es idéntica antes y después (12 pantallas/anchos); 96 combinaciones con `ana` y `peor` sin scroll horizontal ni montos cortados. Sigue el último punto: frecuentes de 3 meses (5).
+- **Después del cierre · PR 4** (rama `feature/ui-desktop-columns`, 2026-11-16; `pr-desktop-columns.md`, capturas en `desktop-columns/`): decisión 7. Desde 1024 px Inicio (saldo, anotar rápido, para pagar y cuentas | movimientos), Reportes (alertas y topes | en qué se fue y 6 meses) y Gastos fijos (resumen | vencimientos) van en dos columnas de hasta 1120 px; Perfil sigue en una columna de 880 px alineada a la izquierda (el usuario eligió esa opción para que el encabezado no salte entre pestañas). `ui/Columns` (`display: contents` por debajo de 1024 px). Pruebas 405 → 408. Verificado: por debajo de 1024 px la geometría de todos los elementos es idéntica antes y después (12 pantallas/anchos); 96 combinaciones con `ana` y `peor` sin scroll horizontal ni montos cortados. Sigue el último punto: frecuentes de 3 meses (5).
 
 ## Pantallas terminadas / PRs
 

diff --git a/DESIGN.md b/DESIGN.md
@@ -212,7 +212,7 @@ Una paleta de tinta y papel con un solo golpe de color. Dos temas con los mismos
 
 ## Layout
 
-Una columna pensada para el celular y una mano. Margen lateral de 16 px (24 px arriba), con respeto del área segura; la barra de navegación inferior es de 76 px y está anclada al borde (nunca flota sobre el contenido). A partir de 768 px la barra pasa a un riel lateral de 96 px y el contenido queda en una columna de 880 px; los avisos bajan al borde. Desde 1024 px, Inicio, Reportes y Gastos fijos se parten en dos columnas (5 y 6 partes, hasta 1120 px en total, 32 px entre ellas); Perfil sigue en una. Por debajo de 1024 px las columnas no existen y todo se apila como en el celular. Espaciado de base 4 px (4, 8, 12, 16, 24, 32, 48).
+Una columna pensada para el celular y una mano. Margen lateral de 16 px (24 px arriba), con respeto del área segura; la barra de navegación inferior es de 76 px y está anclada al borde (nunca flota sobre el contenido). A partir de 768 px la barra pasa a un riel lateral de 96 px y el contenido queda en una columna de 880 px; los avisos bajan al borde. Desde 1024 px, Inicio, Reportes y Gastos fijos se parten en dos columnas (5 y 6 partes, hasta 1120 px en total, 32 px entre ellas); Perfil sigue en una columna de 880 px pegada al borde izquierdo (el encabezado no cambia de lugar entre pestañas). Por debajo de 1024 px las columnas no existen y todo se apila como en el celular. Espaciado de base 4 px (4, 8, 12, 16, 24, 32, 48).
 
 Las secciones se numeran (00, 01, 02…) con un filete debajo; las listas son renglones de un solo botón de 56 a 74 px; los estados vacíos explican y ofrecen la acción. Las grillas se adaptan al tamaño del texto: los frecuentes van de a 3 y bajan a 1 columna con el texto al 200 %; Entró y Salió se apilan. Con el texto grande nada ensancha la pantalla: lo que no entra baja de renglón, y las cifras nunca se cortan (se acortan los nombres).
 

diff --git a/docs/ui-redesign/handoff.md b/docs/ui-redesign/handoff.md
@@ -230,7 +230,7 @@ Paradas ✋ en la fase 5: antes de cualquier borrado, antes de tocar `package.js
 ## 7. Deuda y límites conocidos
 
 - **Frecuentes limitados al mes seleccionado** (el hook solo trae ese mes). Ampliarlo necesita un dato nuevo de la capa de datos: preguntar antes.
-- Desktop: desde 1024 px Inicio, Reportes y Gastos fijos van en dos columnas de hasta 1120 px (`ui/Columns`); Perfil y los anchos de 768 a 1023 px siguen en una columna de 880 px. La `Sheet` se centra en la ventana. La barra del mes ocupa todo el ancho del contenido.
+- Desktop: desde 1024 px Inicio, Reportes y Gastos fijos van en dos columnas de hasta 1120 px (`ui/Columns`); Perfil (880 px, alineado a la izquierda del contenido de 1120 px, decisión del usuario: así el encabezado no se mueve al cambiar de pestaña) y los anchos de 768 a 1023 px siguen en una columna de 880 px. La `Sheet` se centra en la ventana. La barra del mes ocupa todo el ancho del contenido.
 - Entrada de texto natural ("café 3500"): no implementada; `CK.parse` de `docs/ui-redesign/concepts/common.js` es la referencia.
 - Reportes: los porcentajes de la leyenda se redondean por separado (pueden sumar 99 o 101). El termómetro de ritmo ya está (`feature/ui-reports-pace`); el día en que aparece (4) y la tolerancia (±10 %) fueron aprobados por el usuario.
 - Gastos fijos: Deshacer dura lo que el toast (8 s); después, el pago se anula desde Movimientos. A 320 px "Pagar" baja a un renglón propio.
